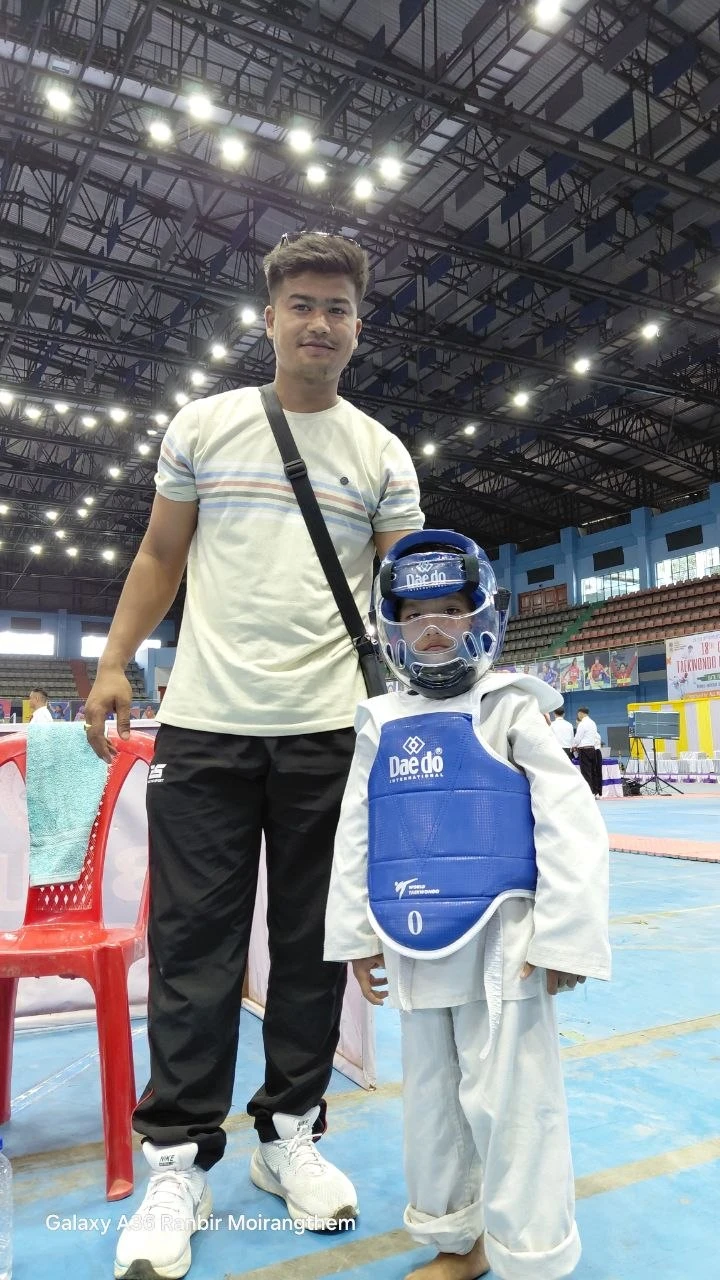
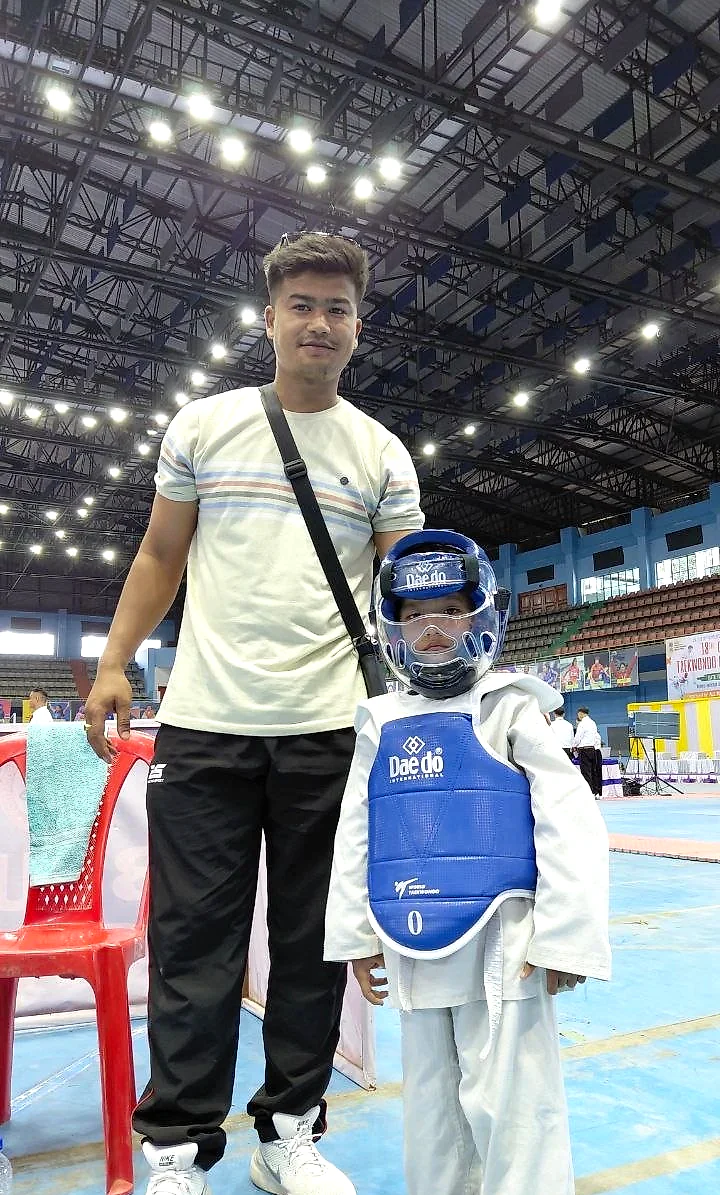
Enhance website photos and present them like a premium gallery
- Photos re-processed from the originals: phone-camera stamps cropped
  off, gentle sharpening, contrast and colour lift; full and small WebP
  sizes chosen by the browser (srcset), blurred previews that fade into
  the sharp photo
- Coach portraits are proper head-and-shoulders crops (no more browser
  zoom, which looked soft) with a 'Photo © Naoboy Photography' credit
- SAI Bangalore photo now names Ranbir Moirangthem
- Gallery: hover zoom, expand icon, and a full-screen viewer with
  captions, arrow keys, swipe and Esc
- scripts/process-photos.cjs documents and repeats the photo pipeline

Claude-Session: https://claude.ai/code/session_0129SNdopENHKbhPaxB8krHo

diff --git a/src/pages/public/Home.jsx b/src/pages/public/Home.jsx
@@ -8,6 +8,9 @@ import PublicFooter from '../../components/site/PublicFooter'
 import { Alert } from '../../components/site/FormField'
 import { useT } from '../../lib/i18n'
 import { DEFAULT_PHOTOS, DEFAULT_GALLERY } from '../../lib/defaultPhotos'
+import Photo from '../../components/media/Photo'
+import Lightbox from '../../components/media/Lightbox'
+import { Expand } from 'lucide-react'
 import {
   ShieldCheck, Users2, Medal, Sparkles, Target, HeartPulse,
   GraduationCap, Globe2, Trophy, Flag, FileText,
@@ -72,6 +75,7 @@ export default function Home() {
   const [enquiryForm, setEnquiryForm] = useState(EMPTY_ENQUIRY)
   const [enquirySubmitting, setEnquirySubmitting] = useState(false)
   const [enquiryStatus, setEnquiryStatus] = useState('')
+  const [viewing, setViewing] = useState(null) // gallery photo open in the full-screen viewer
 
   useEffect(() => {
     supabase
@@ -119,12 +123,7 @@ export default function Home() {
       <main id="main">
         {/* HERO */}
         <section className="relative overflow-hidden bg-pay-navy rounded-b-[2rem] md:rounded-b-[3rem]">
-          <img
-            src={photo('hero_image')}
-            alt=""
-            className="absolute inset-0 w-full h-full object-cover object-[center_35%]"
-            fetchPriority="high"
-          />
+          <Photo photo={photo('hero_image')} alt="" eager sizes="100vw" className="!absolute inset-0 !bg-pay-navy" imgClassName="object-[center_35%]" />
           {/* navy wash: solid behind the text on the left, the team photo shows through on the right */}
           <div className="absolute inset-0 bg-gradient-to-r from-pay-navy via-pay-navy/85 to-pay-navy/25 max-md:bg-pay-navy/75" aria-hidden="true" />
           <div className="absolute inset-0 bg-gradient-to-t from-pay-navy/70 via-transparent to-transparent" aria-hidden="true" />
@@ -196,11 +195,11 @@ export default function Home() {
         {/* ABOUT */}
         <section id="about" className={sectionCls}>
           <div className={`${container} grid md:grid-cols-[1fr_1.2fr] gap-8 md:gap-12 items-center`}>
-            <img
-              src={photo('about_image')}
-              alt={content.about_image ? 'Thoubal Taekwondo Academy' : DEFAULT_GALLERY[0].alt}
-              loading="lazy"
-              className="aspect-[4/3] w-full object-cover rounded-3xl shadow-card"
+            <Photo
+              photo={photo('about_image')}
+              alt={content.about_image ? 'Thoubal Taekwondo Academy' : undefined}
+              sizes="(min-width: 768px) 45vw, 100vw"
+              className="aspect-[4/3] rounded-3xl shadow-card ring-1 ring-black/5"
             />
             <div>
               <SectionHeading kicker="About the academy" title={c('about_heading')} />
@@ -319,14 +318,19 @@ export default function Home() {
               {[1, 2].map((n) => (
                 <div key={n} className="bg-surface rounded-3xl shadow-card p-3">
                   {photo(`coach_${n}_photo`) ? (
-                    <div className="aspect-[4/5] overflow-hidden rounded-2xl bg-pay-sky">
-                      <img
-                        src={photo(`coach_${n}_photo`)}
+                    <div className="relative">
+                      <Photo
+                        photo={photo(`coach_${n}_photo`)}
                         alt={c(`coach_${n}_name`)}
-                        loading="lazy"
-                        // the bundled photos are full-length event shots: zoom in on head and shoulders
-                        className={`w-full h-full object-cover ${content[`coach_${n}_photo`] ? 'object-top' : 'scale-[1.7] origin-[50%_28%]'}`}
+                        sizes="(min-width: 640px) 340px, 92vw"
+                        className="aspect-[4/5] rounded-2xl"
+                        imgClassName="object-top"
                       />
+                      {!content[`coach_${n}_photo`] && DEFAULT_PHOTOS[`coach_${n}_photo`].credit && (
+                        <span className="absolute bottom-2 right-2 rounded-full bg-black/45 px-2 py-0.5 text-[0.62rem] text-white/90 backdrop-blur-sm">
+                          Photo © {DEFAULT_PHOTOS[`coach_${n}_photo`].credit}
+                        </span>
+                      )}
                     </div>
                   ) : (
                     <PhotoPlaceholder label="Photo" className="aspect-[4/5]" />
@@ -353,17 +357,39 @@ export default function Home() {
                       <img key={key} src={content[key]} alt={`Academy gallery photo ${i + 1}`} loading="lazy" className={`object-cover w-full h-full rounded-2xl ${span}`} />
                     ) : null
                   })
-                : DEFAULT_GALLERY.map((g) => (
-                    <figure key={g.src} className={`relative overflow-hidden rounded-2xl row-span-2 ${g.wide ? 'col-span-2' : 'col-span-1'}`}>
-                      <img src={g.src} alt={g.alt} loading="lazy" className="w-full h-full object-cover" />
-                      <figcaption className="absolute inset-x-0 bottom-0 bg-gradient-to-t from-black/70 to-transparent px-3 pt-8 pb-2.5 text-xs font-semibold text-white">
-                        {g.caption}
-                      </figcaption>
+                : DEFAULT_GALLERY.map((g, i) => (
+                    <figure key={g.src} className={`group relative row-span-2 ${g.wide ? 'col-span-2' : 'col-span-1'}`}>
+                      <button
+                        type="button"
+                        onClick={() => setViewing(i)}
+                        aria-label={`${g.caption} — view larger`}
+                        className="block w-full h-full overflow-hidden rounded-2xl shadow-card ring-1 ring-black/5 focus-visible:ring-4 focus-visible:ring-pay-blue"
+                      >
+                        <Photo
+                          photo={g}
+                          sizes={g.wide ? '(min-width: 768px) 50vw, 100vw' : '(min-width: 768px) 25vw, 50vw'}
+                          className="w-full h-full"
+                          imgClassName="transition-transform duration-700 ease-out group-hover:scale-105"
+                        />
+                        <span className="absolute top-2.5 right-2.5 grid place-items-center w-8 h-8 rounded-full bg-black/40 text-white opacity-0 group-hover:opacity-100 group-focus-within:opacity-100 transition-opacity backdrop-blur-sm" aria-hidden="true">
+                          <Expand size={15} />
+                        </span>
+                        <figcaption className="absolute inset-x-0 bottom-0 rounded-b-2xl bg-gradient-to-t from-black/75 via-black/30 to-transparent px-3 pt-10 pb-2.5 text-left text-xs md:text-[0.8rem] font-semibold text-white">
+                          {g.caption}
+                        </figcaption>
+                      </button>
                     </figure>
                   ))}
             </div>
           </div>
         </section>
+
+        <Lightbox
+          items={DEFAULT_GALLERY}
+          index={hasGalleryImages ? null : viewing}
+          onChange={setViewing}
+          onClose={() => setViewing(null)}
+        />
 
         {/* ENQUIRY */}
         <section id="enquiry" className={sectionCls}>

diff --git a/src/lib/defaultPhotos.js b/src/lib/defaultPhotos.js
@@ -1,31 +1,62 @@
+import placeholders from '../assets/photos/placeholders.json'
 import teamBanner from '../assets/photos/team-banner.webp'
+import teamBannerSm from '../assets/photos/team-banner-sm.webp'
 import gtcmAward from '../assets/photos/gtcm-2025-award.webp'
+import gtcmAwardSm from '../assets/photos/gtcm-2025-award-sm.webp'
 import coachRanbir from '../assets/photos/coach-ranbir-moirangthem.webp'
+import coachRanbirSm from '../assets/photos/coach-ranbir-moirangthem-sm.webp'
 import coachJemsh from '../assets/photos/coach-jemsh-saikhom.webp'
-import saiCourse from '../assets/photos/sai-bangalore-coaching-course.webp'
+import coachJemshSm from '../assets/photos/coach-jemsh-saikhom-sm.webp'
+import saiRanbir from '../assets/photos/sai-bangalore-ranbir-moirangthem.webp'
+import saiRanbirSm from '../assets/photos/sai-bangalore-ranbir-moirangthem-sm.webp'
 import gtcCoachAthlete from '../assets/photos/gtc-2025-coach-young-athlete.webp'
-import gtcPodiumCadets from '../assets/photos/gtc-2025-podium-cadets.jpg'
-import gtcPodiumJuniors from '../assets/photos/gtc-2025-podium-juniors.jpg'
-import gtcYoungAthlete from '../assets/photos/gtc-2025-young-athlete.jpg'
+import gtcCoachAthleteSm from '../assets/photos/gtc-2025-coach-young-athlete-sm.webp'
+import gtcPodiumCadets from '../assets/photos/gtc-2025-podium-cadets.webp'
+import gtcPodiumCadetsSm from '../assets/photos/gtc-2025-podium-cadets-sm.webp'
+import gtcPodiumJuniors from '../assets/photos/gtc-2025-podium-juniors.webp'
+import gtcPodiumJuniorsSm from '../assets/photos/gtc-2025-podium-juniors-sm.webp'
+import gtcYoungAthlete from '../assets/photos/gtc-2025-young-athlete.webp'
+import gtcYoungAthleteSm from '../assets/photos/gtc-2025-young-athlete-sm.webp'
 
-// Academy photos bundled with the site. Shown until an admin uploads a replacement
-// for the same slot in Website Content.
+// Academy photos bundled with the site, shown until an admin uploads a replacement for the
+// same slot in Website Content. Each has a full and a small size (for phones) and a tiny
+// blurred preview shown while it loads. They were sharpened, colour-corrected and had the
+// phone-camera stamps cropped off (see README → Photos).
+// w/h = full size in pixels, smW = width of the small file
+const photo = (key, src, sm, w, h, smW, extra = {}) => ({ src, sm, w, h, smW, placeholder: placeholders[key], ...extra })
+
 export const DEFAULT_PHOTOS = {
-  hero_image: teamBanner,
-  about_image: gtcmAward,
-  coach_1_photo: coachRanbir, // Ranbir Moirangthem, head coach
-  coach_2_photo: coachJemsh, // Jemsh Saikhom, assistant coach
+  hero_image: photo('team-banner', teamBanner, teamBannerSm, 1600, 720, 800, {
+    alt: 'Thoubal Taekwondo Academy students lined up in the training hall',
+  }),
+  about_image: photo('gtcm-2025-award', gtcmAward, gtcmAwardSm, 1280, 960, 720, {
+    alt: 'Thoubal Taekwondo Academy team receiving the 2nd Runner Up prize at the 18th GTCM 2025',
+  }),
+  // Head-and-shoulders crops of event portraits by Naoboy Photography
+  coach_1_photo: photo('coach-ranbir-moirangthem', coachRanbir, coachRanbirSm, 880, 1100, 440, { credit: 'Naoboy Photography' }),
+  coach_2_photo: photo('coach-jemsh-saikhom', coachJemsh, coachJemshSm, 880, 1100, 440, { credit: 'Naoboy Photography' }),
 }
 
 // Used for the gallery when no gallery photos have been uploaded yet.
-// wide = landscape photo (two columns); others are portrait (one column).
-// The team photo is left out because it is already the homepage banner.
+// wide = landscape (two columns); others are portrait (one column). The team photo is
+// left out because it is already the homepage banner.
 const GTC = "18th Governor's Taekwondo Cup, Manipur 2025"
 export const DEFAULT_GALLERY = [
-  { src: gtcmAward, wide: true, caption: '2nd Runner Up · 18th GTCM 2025', alt: 'Thoubal Taekwondo Academy team receiving the 2nd Runner Up prize at the 18th GTCM 2025' },
-  { src: saiCourse, caption: 'SAI Bangalore coaching course', alt: 'Academy coach at the Sports Authority of India, Bangalore Diploma Course in Sports Coaching (Taekwondo) practical examination' },
-  { src: gtcCoachAthlete, caption: GTC, alt: `A coach with a young athlete in sparring gear at the ${GTC}` },
-  { src: gtcPodiumJuniors, wide: true, caption: `Medal ceremony · ${GTC}`, alt: `Young medallists on the podium at the ${GTC}` },
-  { src: gtcPodiumCadets, caption: `Medal ceremony · ${GTC}`, alt: `Medal ceremony at the ${GTC}` },
-  { src: gtcYoungAthlete, caption: 'Ready for the bout', alt: `A young athlete in sparring gear waiting to compete at the ${GTC}` },
+  { ...DEFAULT_PHOTOS.about_image, wide: true, caption: '2nd Runner Up · 18th GTCM 2025' },
+  photo('sai-bangalore-ranbir-moirangthem', saiRanbir, saiRanbirSm, 720, 1280, 480, {
+    caption: 'Ranbir Moirangthem · SAI Bangalore coaching course',
+    alt: 'Head coach Ranbir Moirangthem at the Sports Authority of India, Bangalore Diploma Course in Sports Coaching (Taekwondo) practical examination',
+  }),
+  photo('gtc-2025-coach-young-athlete', gtcCoachAthlete, gtcCoachAthleteSm, 720, 1195, 480, {
+    caption: GTC, alt: `A coach with a young athlete in sparring gear at the ${GTC}`,
+  }),
+  photo('gtc-2025-podium-juniors', gtcPodiumJuniors, gtcPodiumJuniorsSm, 1280, 650, 720, {
+    wide: true, caption: `Medal ceremony · ${GTC}`, alt: `Young medallists on the podium at the ${GTC}`,
+  }),
+  photo('gtc-2025-podium-cadets', gtcPodiumCadets, gtcPodiumCadetsSm, 720, 1193, 480, {
+    caption: `Medal ceremony · ${GTC}`, alt: `Medal ceremony at the ${GTC}`,
+  }),
+  photo('gtc-2025-young-athlete', gtcYoungAthlete, gtcYoungAthleteSm, 720, 1195, 480, {
+    caption: 'Ready for the bout', alt: `A young athlete in sparring gear waiting to compete at the ${GTC}`,
+  }),
 ]

diff --git a/src/components/media/Lightbox.jsx b/src/components/media/Lightbox.jsx
@@ -1,0 +1,91 @@
+import { useEffect, useRef } from 'react'
+import { createPortal } from 'react-dom'
+import { ChevronLeft, ChevronRight, X } from 'lucide-react'
+import { useT } from '../../lib/i18n'
+
+/**
+ * Full-screen photo viewer. items: [{ src, alt, caption }]; index: open photo (null = closed).
+ * Arrow keys / swipe to move, Esc or the backdrop to close; focus returns to the opener.
+ */
+export default function Lightbox({ items, index, onChange, onClose }) {
+  const { t } = useT()
+  const closeRef = useRef(null)
+  const touchX = useRef(null)
+  const open = index != null
+  const count = items.length
+
+  // Latest props for the key handler, so the effects below only run on open/close
+  const live = useRef({})
+  useEffect(() => {
+    live.current = { index, count, onChange, onClose }
+  })
+
+  // Opening: focus the close button and lock page scroll; closing: restore both
+  useEffect(() => {
+    if (!open) return
+    const opener = document.activeElement
+    closeRef.current?.focus()
+    document.body.style.overflow = 'hidden'
+    return () => {
+      document.body.style.overflow = ''
+      opener?.focus?.({ preventScroll: true })
+    }
+  }, [open])
+
+  useEffect(() => {
+    if (!open) return
+    const onKey = (e) => {
+      const { index: i, count: n, onChange: change, onClose: close } = live.current
+      if (e.key === 'Escape') close()
+      if (e.key === 'ArrowRight') change((i + 1) % n)
+      if (e.key === 'ArrowLeft') change((i - 1 + n) % n)
+    }
+    document.addEventListener('keydown', onKey)
+    return () => document.removeEventListener('keydown', onKey)
+  }, [open])
+
+  if (!open) return null
+  const item = items[index]
+  const go = (d) => onChange((index + d + count) % count)
+
+  return createPortal(
+    <div
+      role="dialog"
+      aria-modal="true"
+      aria-label={item.caption || item.alt}
+      className="fixed inset-0 z-[90] flex flex-col bg-black text-white"
+      onClick={(e) => e.target === e.currentTarget && onClose()}
+      onTouchStart={(e) => { touchX.current = e.touches[0].clientX }}
+      onTouchEnd={(e) => {
+        if (touchX.current == null) return
+        const dx = e.changedTouches[0].clientX - touchX.current
+        if (Math.abs(dx) > 50) go(dx < 0 ? 1 : -1)
+        touchX.current = null
+      }}
+    >
+      <div className="flex items-center justify-between px-4 py-3 text-sm">
+        <span className="text-white/70 tabular-nums">{index + 1} / {count}</span>
+        <button ref={closeRef} type="button" onClick={onClose} aria-label={t('Close')} className="grid place-items-center w-10 h-10 rounded-full hover:bg-white/10">
+          <X size={22} />
+        </button>
+      </div>
+
+      <div className="relative flex-1 min-h-0 flex items-center justify-center px-2 md:px-16" onClick={(e) => e.target === e.currentTarget && onClose()}>
+        <img key={item.src} src={item.src} alt={item.alt} className="max-h-full max-w-full object-contain rounded-lg shadow-2xl animate-[fadeIn_.25s_ease-out]" />
+        {count > 1 && (
+          <>
+            <button type="button" onClick={() => go(-1)} aria-label="Previous photo" className="absolute left-2 md:left-4 top-1/2 -translate-y-1/2 grid place-items-center w-11 h-11 rounded-full bg-white/10 hover:bg-white/20 backdrop-blur">
+              <ChevronLeft size={24} />
+            </button>
+            <button type="button" onClick={() => go(1)} aria-label="Next photo" className="absolute right-2 md:right-4 top-1/2 -translate-y-1/2 grid place-items-center w-11 h-11 rounded-full bg-white/10 hover:bg-white/20 backdrop-blur">
+              <ChevronRight size={24} />
+            </button>
+          </>
+        )}
+      </div>
+
+      {item.caption && <p className="px-4 py-4 text-center text-sm md:text-base text-white/90">{item.caption}</p>}
+    </div>,
+    document.body,
+  )
+}

diff --git a/src/components/media/Photo.jsx b/src/components/media/Photo.jsx
@@ -1,0 +1,34 @@
+import { useState } from 'react'
+
+/**
+ * Premium image: shows a blurred preview instantly, fades the sharp photo in when it has
+ * loaded, and lets the browser pick the small or full file for the screen.
+ * `photo` is either a bundled photo object ({ src, sm, w, h, placeholder, alt }) or a URL
+ * string (an admin upload).
+ */
+export default function Photo({ photo, alt, sizes = '100vw', className = '', imgClassName = '', eager = false }) {
+  const [loaded, setLoaded] = useState(false)
+  const p = typeof photo === 'string' ? { src: photo } : photo
+  if (!p?.src) return null
+
+  return (
+    <div
+      className={`relative overflow-hidden bg-pay-sky ${className}`}
+      style={p.placeholder ? { backgroundImage: `url(${p.placeholder})`, backgroundSize: 'cover', backgroundPosition: 'center' } : undefined}
+    >
+      <img
+        src={p.src}
+        srcSet={p.sm ? `${p.sm} ${p.smW}w, ${p.src} ${p.w}w` : undefined}
+        sizes={p.sm ? sizes : undefined}
+        width={p.w}
+        height={p.h}
+        alt={alt ?? p.alt ?? ''}
+        loading={eager ? 'eager' : 'lazy'}
+        decoding="async"
+        fetchPriority={eager ? 'high' : undefined}
+        onLoad={() => setLoaded(true)}
+        className={`w-full h-full object-cover transition-opacity duration-500 ${loaded ? 'opacity-100' : 'opacity-0'} ${imgClassName}`}
+      />
+    </div>
+  )
+}

diff --git a/src/styles/tailwind.css b/src/styles/tailwind.css
@@ -243,3 +243,8 @@
 }
 @page { margin: 10mm; }
 
+
+@keyframes fadeIn {
+  from { opacity: 0; transform: scale(0.98); }
+  to { opacity: 1; transform: none; }
+}

diff --git a/README.md b/README.md
@@ -40,6 +40,15 @@ npm run dev
 Translations live in `src/i18n/` (keys are the English text). The Manipuri (Meitei Mayek) file is a
 draft and should be reviewed by a native speaker.
 
+## Photos
+
+Default website photos live in `src/assets/photos/` and are wired up in `src/lib/defaultPhotos.js`
+(banner, About, coach portraits, gallery). An admin can replace any of them from Website Content.
+They were prepared with `scripts/process-photos.cjs` (crop phone-camera stamps, gentle sharpening
+and colour, full + small sizes, blurred previews). The coach portraits are by Naoboy Photography;
+keep the on-card credit if you reuse them. For sharper results, re-run the script on the original
+camera files.
+
 ## Database
 
 Run these in the Supabase SQL editor, in order, after checking them against your existing policies:
